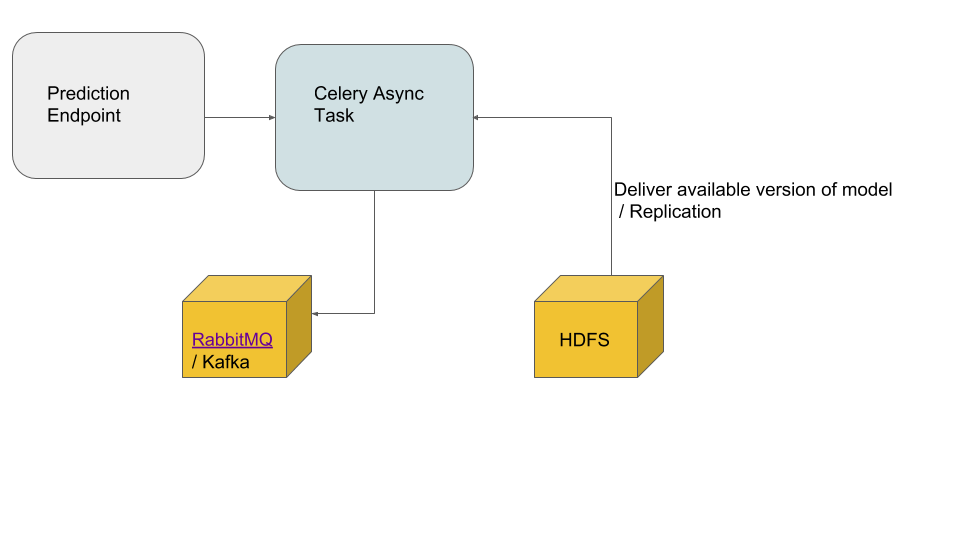
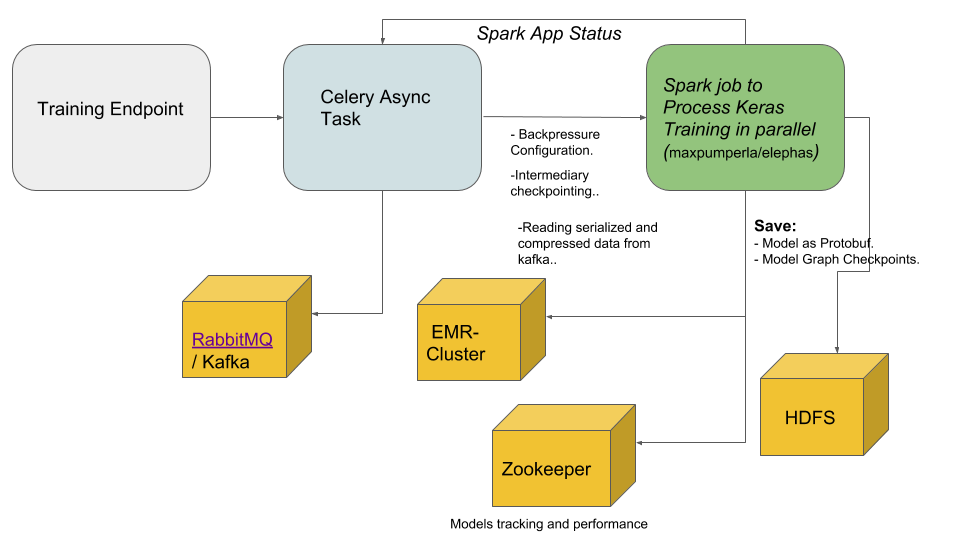
RA: small clean code refactor

diff --git a/README.md b/README.md
@@ -79,13 +79,16 @@ The microservice is composed by 2 endpoints:
 * The flask service starts an asynchronous task using celery and a Queue.
 * The task launch a spark job which runs the training model in parallel.
     - The spark job should use a back pressure strategy to limit the input rate from the source. Gain control, trade-off throughput vs latency.
-    - This back pressure could be done writing serialized images first to kafka.
+    - This back pressure could be done writing serialized/compressed images first to kafka.
     - The spark job could also use micro-batching strategies with intermediary checkpoints in HDFS if the data size is huge.
     - The job should take care of a good data partitioning. Smaller partition less memory used, but more shuffling (latency).
     
-* The spark job store model in HDFS in format proto buff.
+* The spark job store model and checkpoint in HDFS in format proto buff.
 * HDFS is also used to store intermediary checkpoints.    
-* The spark task responds with the job finished (heartbeat could be used) status to the task.    
+* The spark task responds with the job finished (heartbeat could be used) status to the task.
+* Finally Zookeeper tracks the models versions and performances. 
+
+    
       
 
 ## Prediction
@@ -94,9 +97,17 @@ The microservice is composed by 2 endpoints:
 
 * The flask service starts an asynchronous task using celery and a Queue.
 * The task gets an available model from HDFS and runs prediction.
+* To get the available model, zookeeper makes the Orchestration task.
+* The service could have a cache version of the model for extreme cases.
 
 ## Acknowledgments
 
 * The complete microservice could work with WSGI, NGINX , Docker compose, Kubernetes.
+
+* Kubernetes and NGINX could give the following advantages:
+    - Load Balancing.
+    - POD Replication.
+    - Service discovery.
+
 
 
